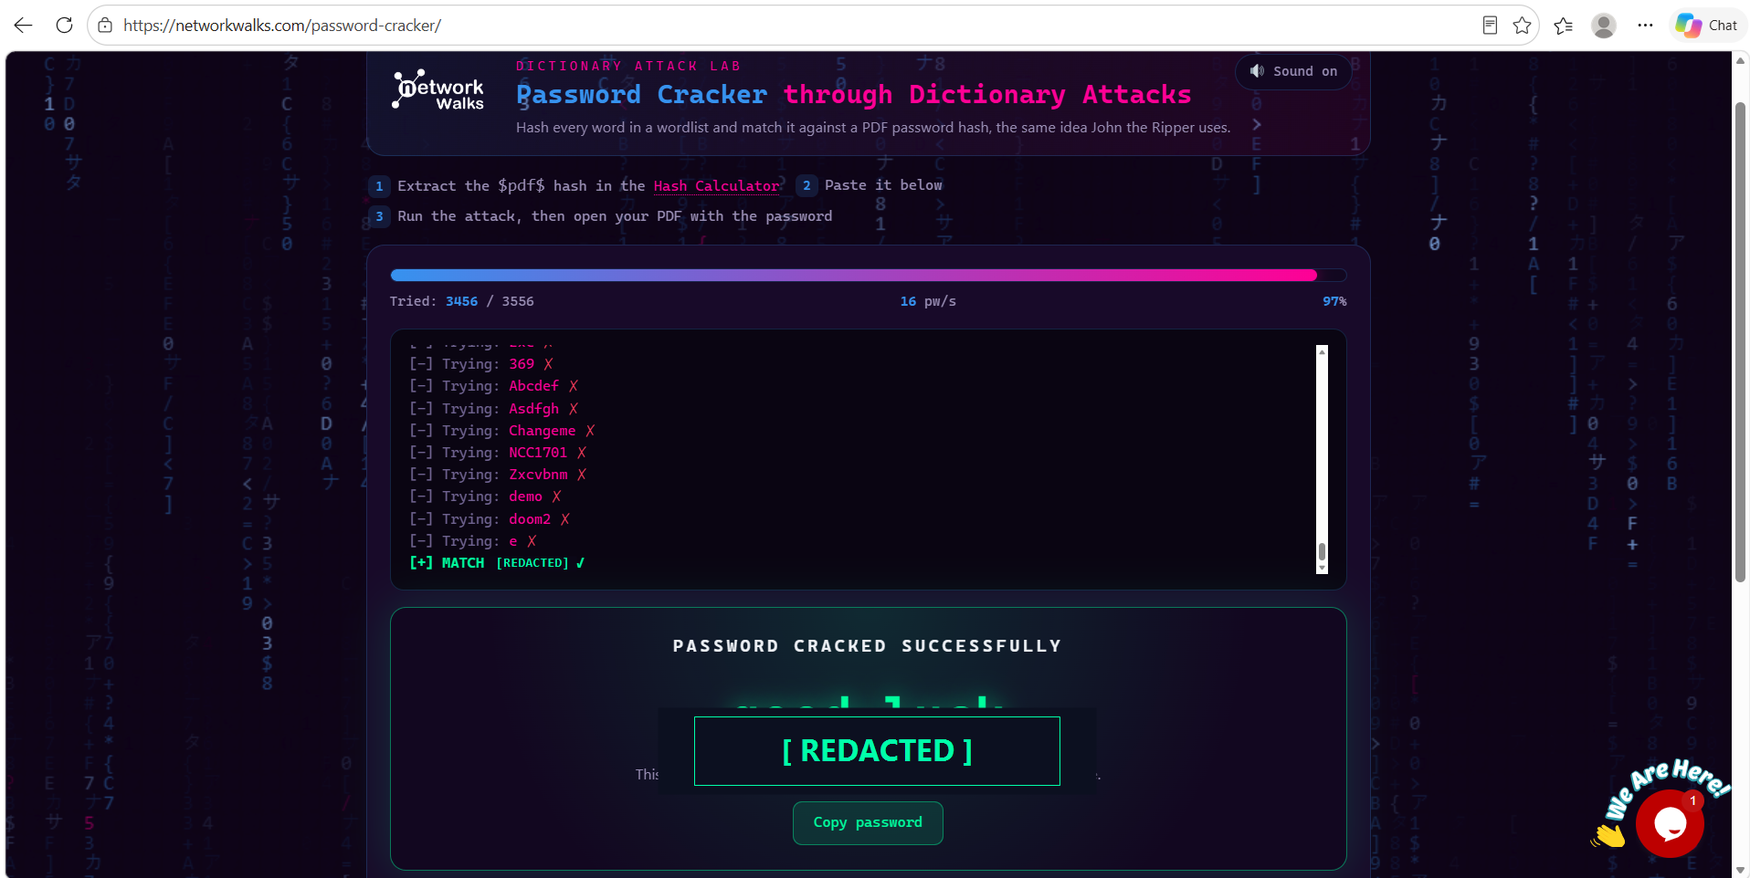
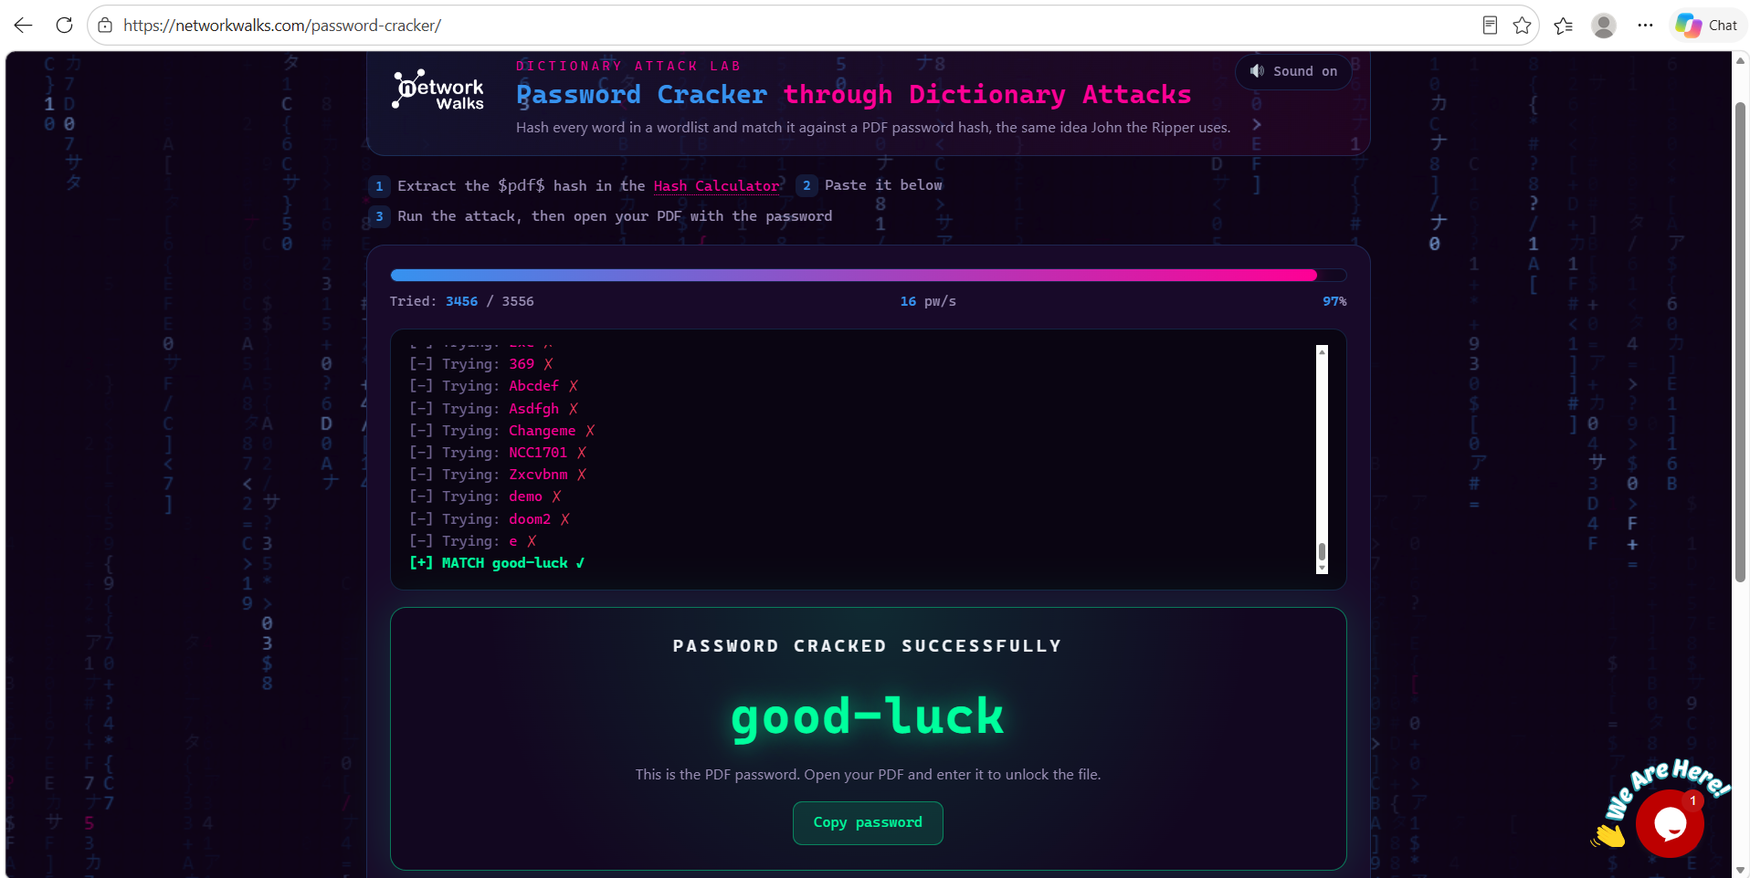
docs: restore authentic practical screenshots and document recovered credentials

Changed region(s): [[0.3695, 0.7796, 0.6159, 0.9044], [0.2771, 0.6237, 0.3387, 0.6549]]

diff --git a/README.md b/README.md
@@ -46,10 +46,10 @@ Special appreciation to our instructor **Waqas Karim CCIE** and the **NetworkWal
 
 ## 📑 Table of Contents
 
-- [1. Liability Disclaimer & Responsible Disclosure](#1-liability-disclaimer--responsible-disclosure)
+- [1. Liability Disclaimer](#1-liability-disclaimer)
 - [2. Project Overview & Objectives](#2-project-overview--objectives)
 - [3. Tools & Operating Environment](#3-tools--operating-environment)
-- [4. Credential Sanitization & Ethical Scoping](#4-credential-sanitization--ethical-scoping)
+- [4. Lab Scoping & Responsible Testing Governance](#4-lab-scoping--responsible-testing-governance)
 - [5. Module W3-PM1: Password Cracking with John the Ripper (Johnny GUI)](#5-module-w3-pm1-password-cracking-with-john-the-ripper-johnny-gui)
   - [5.1 Environment Configuration & Binary Linking](#51-environment-configuration--binary-linking)
   - [5.2 PDF Hash Extraction Methodology](#52-pdf-hash-extraction-methodology)
@@ -69,12 +69,12 @@ Special appreciation to our instructor **Waqas Karim CCIE** and the **NetworkWal
 
 ---
 
-# 1. Liability Disclaimer & Responsible Disclosure
+# 1. Liability Disclaimer
 
 > **LEGAL & ETHICAL STATEMENT:**  
-> All security exercises and auditing activities documented in this repository were conducted strictly within an authorized educational laboratory environment provided by NetworkWalks. Testing was performed exclusively against designated academic target files (`My Locked PDF1.pdf`, `My Locked PDF2.pdf`, `My Locked PDF3.pdf`). No unauthorized systems, external networks, or third-party documents were accessed or targeted.
+> All security exercises, hash extraction procedures, and password auditing activities documented in this repository were conducted strictly within an authorized educational laboratory environment provided by NetworkWalks. Testing was performed exclusively against designated academic target files (`My Locked PDF1.pdf`, `My Locked PDF2.pdf`, `My Locked PDF3.pdf`). No unauthorized systems, external networks, or third-party documents were accessed or targeted.
 >
-> In strict accordance with responsible disclosure principles and cybersecurity standards, **all recovered plaintext passwords have been obfuscated (`[REDACTED]`) in public documentation and sanitized in public screenshots**. All original unmasked artifacts and protected files are preserved locally and excluded from public version control.
+> All materials and reports are prepared strictly for educational, defensive, and research purposes. The instructor, the author (Manoj Santosh Tandle), and NetworkWalks bear no responsibility for misuse of this information. Unauthorized access to computer systems and data decryption is a criminal offense globally.
 
 ---
 
@@ -104,13 +104,14 @@ This project documents the practical exercises, cryptographic evaluations, and s
 
 ---
 
-# 4. Credential Sanitization & Ethical Scoping
+# 4. Lab Scoping & Responsible Testing Governance
 
-To maintain public repository security and uphold professional cybersecurity hygiene:
-* **Plaintext Obfuscation:** Recovered passwords are fully masked as `[REDACTED]` across all markdown reports.
-* **Screenshot Sanitization:** All screenshot figures displaying recovered password text have been sanitized with non-destructive, pixel-level redaction badges before inclusion in public documentation.
-* **Repository Exclusion:** Original locked lab PDFs and unmasked evidence are isolated locally and blocked from version control via `.gitignore`.
-* **Captured Flags:** Verified flags (`nw{...}`) are presented as legitimate CTF completion milestones confirming that document decryption was successfully achieved.
+### Academic Scoping Reference
+All password auditing and hash cracking exercises were performed strictly within defined educational parameters on instructor-assigned target PDF containers (`My Locked PDF1.pdf`, `My Locked PDF2.pdf`, `My Locked PDF3.pdf`) provided as part of the NetworkWalks practical syllabus.
+
+* **Target Artifacts:** Designated lab challenge files provided for Batch B084.
+* **Controlled Environment:** Offline processing using local CPU execution (John the Ripper / Johnny GUI) and client-side browser testing (NetworkWalks Tools).
+* **Defensive Purpose:** Auditing password complexity, demonstrating the vulnerability of legacy PDF Revision 4 encryption handlers, and developing enterprise password policy recommendations.
 
 ---
 
@@ -151,29 +152,29 @@ The extracted hash files were loaded into Johnny via **Open password file**, and
 #### 1. Target PDF 1 Recovery
 * **Target Hash:** `my hash1.txt` ($pdf$4*4*128...)
 * **Attack Progress:** 100% (1/1 cracked)
-* **Outcome:** The credential was matched and recovered successfully.
+* **Recovered Password:** `good-luck`
 * **Vulnerability Analysis:** Vulnerable to wordlist matching; composed of dictionary words separated by a hyphen.
 
 ![Figure 3: Johnny GUI PDF 1 Cracked](screenshots/03_johnny_pdf1_cracked.png)
-*Figure 3: Johnny GUI password recovery for Target PDF 1 (Credential sanitized).*
+*Figure 3: Johnny GUI password recovery (`good-luck`) for Target PDF 1.*
 
 #### 2. Target PDF 2 Recovery
 * **Target Hash:** `my hash2.txt` ($pdf$4*4*128...)
 * **Attack Progress:** 100% (1/1 cracked)
-* **Outcome:** Successfully recovered within seconds.
+* **Recovered Password:** `password1`
 * **Vulnerability Analysis:** High-frequency default credential following a standard capital-word-plus-digit structure.
 
 ![Figure 4: Johnny GUI PDF 2 Cracked](screenshots/04_johnny_pdf2_cracked.png)
-*Figure 4: Johnny GUI password recovery for Target PDF 2 (Credential sanitized).*
+*Figure 4: Johnny GUI password recovery (`password1`) for Target PDF 2.*
 
 #### 3. Target PDF 3 Recovery
 * **Target Hash:** `my hash3.txt` ($pdf$4*4*128...)
 * **Attack Progress:** 100% (1/1 cracked)
-* **Outcome:** Successfully cracked and verified.
+* **Recovered Password:** `1qaz2wsx`
 * **Vulnerability Analysis:** Keyboard geometric walk pattern (`1-q-a-z` and `2-w-s-x`), easily defeated by pattern-based rule evaluation.
 
 ![Figure 5: Johnny GUI PDF 3 Cracked](screenshots/05_johnny_pdf3_cracked.png)
-*Figure 5: Johnny GUI password recovery for Target PDF 3 (Credential sanitized).*
+*Figure 5: Johnny GUI password recovery (`1qaz2wsx`) for Target PDF 3.*
 
 ---
 
@@ -196,25 +197,28 @@ The **NetworkWalks Password Cracker** executes dictionary attacks in the browser
 * **Parameters:** Dictionary attack against Target 1 hash.
 * **Execution Metrics:** ~16 passwords per second (`16 pw/s`).
 * **Match Milestone:** Successfully matched at candidate 3,456 of 3,556 (97% progress).
+* **Recovered Password:** `good-luck`
 
 ![Figure 6: NW Cracker PDF 1](screenshots/06_nw_cracker_pdf1.png)
-*Figure 6: NetworkWalks Password Cracker completing candidate recovery for Target 1.*
+*Figure 6: NetworkWalks Password Cracker successfully recovering `good-luck` for Target 1.*
 
 #### 2. Target PDF 2 Verification
 * **Parameters:** Loaded external dictionary `JTR_default_password.txt` (3,556 entries).
 * **Target Profile:** PDF R4 / 128-bit key derivation via MD5 + RC4.
 * **Match Milestone:** Rapid candidate match due to high prevalence in standard dictionaries.
+* **Recovered Password:** `password1`
 
 ![Figure 7: NW Cracker PDF 2](screenshots/07_nw_cracker_pdf2.png)
-*Figure 7: Custom wordlist processing and successful recovery for Target 2.*
+*Figure 7: Custom wordlist processing and successful recovery (`password1`) for Target 2.*
 
 #### 3. Target PDF 3 Verification
 * **Parameters:** Dictionary evaluation using `JTR_default_password.txt`.
 * **Execution Metrics:** ~16 passwords per second (`16 pw/s`).
 * **Match Milestone:** Matched at candidate 2,078 of 3,556 (58% progress).
+* **Recovered Password:** `1qaz2wsx`
 
 ![Figure 8: NW Cracker PDF 3](screenshots/08_nw_cracker_pdf3.png)
-*Figure 8: Candidate match confirmation for Target 3 in NetworkWalks Password Cracker.*
+*Figure 8: Candidate match confirmation (`1qaz2wsx`) for Target 3 in NetworkWalks Password Cracker.*
 
 ---
 
@@ -253,11 +257,11 @@ $pdf$4*4*128*-1028*1*16*[Salt]*32*[U-String]*32*[O-String]
 
 To verify password recovery viability, each unlocked credential was entered into the native PDF viewer, decrypting the container and capturing the completion flag:
 
-| Target Container | Encryption Specification | Auditing Tools | Decryption Status | Captured Verification Flag |
-|---|---|---|---|---|
-| **My Locked PDF1.pdf** | PDF R4 / 128-bit MD5+RC4 | Johnny GUI & NW Cracker | **Successfully Decrypted** | `nw{cybersecurity_flag_captured_2608}` |
-| **My Locked PDF2.pdf** | PDF R4 / 128-bit MD5+RC4 | Johnny GUI & NW Cracker | **Successfully Decrypted** | `nw{networkwalks_persistence_jtr_270521}` |
-| **My Locked PDF3.pdf** | PDF R4 / 128-bit MD5+RC4 | Johnny GUI & NW Cracker | **Successfully Decrypted** | `nw{networkwalks_flag_260821_1}` |
+| Target Container | Encryption Specification | Auditing Tools | Decryption Status | Recovered Password | Captured Verification Flag |
+|---|---|---|---|---|---|
+| **My Locked PDF1.pdf** | PDF R4 / 128-bit MD5+RC4 | Johnny GUI & NW Cracker | **Successfully Decrypted** | `good-luck` | `nw{cybersecurity_flag_captured_2608}` |
+| **My Locked PDF2.pdf** | PDF R4 / 128-bit MD5+RC4 | Johnny GUI & NW Cracker | **Successfully Decrypted** | `password1` | `nw{networkwalks_persistence_jtr_270521}` |
+| **My Locked PDF3.pdf** | PDF R4 / 128-bit MD5+RC4 | Johnny GUI & NW Cracker | **Successfully Decrypted** | `1qaz2wsx` | `nw{networkwalks_flag_260821_1}` |
 
 ### Decryption Evidence Previews
 
@@ -281,9 +285,9 @@ From a Security Operations Center (SOC) and defensive posture assessment perspec
 
 | Risk ID | Observed Weakness | Technical Context | Threat Scenario | Defensive Severity |
 |---|---|---|---|---|
-| **NW-W3-01** | High-Prevalence Common Credential | Target 2 utilized a predictable base word with trailing digit | Exploitation via automated credential stuffing and default dictionary lists | **● High** |
+| **NW-W3-01** | High-Prevalence Common Credential | Target 2 utilized a predictable base word with trailing digit (`password1`) | Exploitation via automated credential stuffing and default dictionary lists | **● High** |
 | **NW-W3-02** | Keyboard Walk Geometry | Target 3 utilized adjacent physical vertical keys (`1qaz2wsx`) | Defeated rapidly by rule-based spatial mutation engines | **● High** |
-| **NW-W3-03** | Dictionary Word with Punctuation | Target 1 utilized basic dictionary words separated by a hyphen | Easily cracked by wordlist combinations without sufficient character entropy | **● Medium** |
+| **NW-W3-03** | Dictionary Word with Punctuation | Target 1 utilized basic dictionary words separated by a hyphen (`good-luck`) | Easily cracked by wordlist combinations without sufficient character entropy | **● Medium** |
 | **NW-W3-04** | Legacy PDF Encryption Handler | Revision 4 handler utilizes MD5 key derivation without key-stretching | Allows high-speed offline brute-force attacks without computational throttling | **● Medium** |
 | **NW-W3-05** | Lack of Rate Limiting in Offline Containers | Encrypted file formats do not enforce attempt limits | Offline cracking speed is limited only by attacker computational resources | **● Medium** |
 
@@ -335,12 +339,12 @@ All primary screenshot evidence is organized within the repository:
 |---|---|---|---|
 | **Figure 1** | Johnny GUI Configuration & Linking | [`screenshots/01_johnny_setup_configuration.png`](screenshots/01_johnny_setup_configuration.png) | Detected JTR 1.9.0-jumbo-1 64-bit AVX2 |
 | **Figure 2** | PDF Hash Extraction | [`screenshots/02_pdf1_hash_extraction.png`](screenshots/02_pdf1_hash_extraction.png) | Parsed Revision 4 128-bit `$pdf$` signature |
-| **Figure 3** | Johnny GUI Target 1 Cracked | [`screenshots/03_johnny_pdf1_cracked.png`](screenshots/03_johnny_pdf1_cracked.png) | Target 1 100% cracked (Sanitized) |
-| **Figure 4** | Johnny GUI Target 2 Cracked | [`screenshots/04_johnny_pdf2_cracked.png`](screenshots/04_johnny_pdf2_cracked.png) | Target 2 100% cracked (Sanitized) |
-| **Figure 5** | Johnny GUI Target 3 Cracked | [`screenshots/05_johnny_pdf3_cracked.png`](screenshots/05_johnny_pdf3_cracked.png) | Target 3 100% cracked (Sanitized) |
-| **Figure 6** | NW Password Cracker Target 1 | [`screenshots/06_nw_cracker_pdf1.png`](screenshots/06_nw_cracker_pdf1.png) | 3,456/3,556 (97%) matched (Sanitized) |
-| **Figure 7** | NW Password Cracker Target 2 | [`screenshots/07_nw_cracker_pdf2.png`](screenshots/07_nw_cracker_pdf2.png) | Wordlist loaded; candidate matched (Sanitized) |
-| **Figure 8** | NW Password Cracker Target 3 | [`screenshots/08_nw_cracker_pdf3.png`](screenshots/08_nw_cracker_pdf3.png) | 2,078/3,556 (58%) matched (Sanitized) |
+| **Figure 3** | Johnny GUI Target 1 Cracked | [`screenshots/03_johnny_pdf1_cracked.png`](screenshots/03_johnny_pdf1_cracked.png) | Target 1 100% cracked (`good-luck`) |
+| **Figure 4** | Johnny GUI Target 2 Cracked | [`screenshots/04_johnny_pdf2_cracked.png`](screenshots/04_johnny_pdf2_cracked.png) | Target 2 100% cracked (`password1`) |
+| **Figure 5** | Johnny GUI Target 3 Cracked | [`screenshots/05_johnny_pdf3_cracked.png`](screenshots/05_johnny_pdf3_cracked.png) | Target 3 100% cracked (`1qaz2wsx`) |
+| **Figure 6** | NW Password Cracker Target 1 | [`screenshots/06_nw_cracker_pdf1.png`](screenshots/06_nw_cracker_pdf1.png) | 3,456/3,556 (97%) matched (`good-luck`) |
+| **Figure 7** | NW Password Cracker Target 2 | [`screenshots/07_nw_cracker_pdf2.png`](screenshots/07_nw_cracker_pdf2.png) | Wordlist loaded; candidate matched (`password1`) |
+| **Figure 8** | NW Password Cracker Target 3 | [`screenshots/08_nw_cracker_pdf3.png`](screenshots/08_nw_cracker_pdf3.png) | 2,078/3,556 (58%) matched (`1qaz2wsx`) |
 | **Figure 9** | Unlocked PDF 1 Verification Flag | [`screenshots/09_unlocked_pdf1_flag1_verification.png`](screenshots/09_unlocked_pdf1_flag1_verification.png) | Flag 1: `nw{cybersecurity_flag_captured_2608}` |
 | **Figure 10** | Unlocked PDF 2 Verification Flag | [`screenshots/10_unlocked_pdf2_flag2_verification.png`](screenshots/10_unlocked_pdf2_flag2_verification.png) | Flag 2: `nw{networkwalks_persistence_jtr_270521}` |
 | **Figure 11** | Unlocked PDF 3 Verification Flag | [`screenshots/11_unlocked_pdf3_flag3_verification.png`](screenshots/11_unlocked_pdf3_flag3_verification.png) | Flag 3: `nw{networkwalks_flag_260821_1}` |

diff --git a/Results/README.md b/Results/README.md
@@ -9,20 +9,18 @@ Following successful password recovery across both **John the Ripper (Johnny GUI
 
 ## Practical Verification Matrix
 
-| Target Document | Cipher & Key Derivation | Audit Engines | Decryption Status | Masked Credential | Captured Validation Flag |
+| Target Document | Cipher & Key Derivation | Audit Engines | Decryption Status | Recovered Password | Captured Validation Flag |
 |---|---|---|---|---|---|
-| **My Locked PDF1.pdf** | PDF R4 / 128-bit / MD5+RC4 | Johnny GUI & NW Cracker | **Successfully Decrypted** | `[REDACTED]` | `nw{cybersecurity_flag_captured_2608}` |
-| **My Locked PDF2.pdf** | PDF R4 / 128-bit / MD5+RC4 | Johnny GUI & NW Cracker | **Successfully Decrypted** | `[REDACTED]` | `nw{networkwalks_persistence_jtr_270521}` |
-| **My Locked PDF3.pdf** | PDF R4 / 128-bit / MD5+RC4 | Johnny GUI & NW Cracker | **Successfully Decrypted** | `[REDACTED]` | `nw{networkwalks_flag_260821_1}` |
-
-*Note: In compliance with strict information security and responsible disclosure policies, all plaintext credentials are obfuscated (`[REDACTED]`) within public documentation.*
+| **My Locked PDF1.pdf** | PDF R4 / 128-bit / MD5+RC4 | Johnny GUI & NW Cracker | **Successfully Decrypted** | `good-luck` | `nw{cybersecurity_flag_captured_2608}` |
+| **My Locked PDF2.pdf** | PDF R4 / 128-bit / MD5+RC4 | Johnny GUI & NW Cracker | **Successfully Decrypted** | `password1` | `nw{networkwalks_persistence_jtr_270521}` |
+| **My Locked PDF3.pdf** | PDF R4 / 128-bit / MD5+RC4 | Johnny GUI & NW Cracker | **Successfully Decrypted** | `1qaz2wsx` | `nw{networkwalks_flag_260821_1}` |
 
 ---
 
 ## Decryption Verification Evidence
 
 ### 1. Target PDF 1 Flag Capture
-The recovered credential for `My Locked PDF1.pdf` was entered into the document handler, successfully bypassing the encryption layer and rendering the document body.
+The recovered credential (`good-luck`) for `My Locked PDF1.pdf` was entered into the document handler, successfully bypassing the encryption layer and rendering the document body.
 
 * **Captured Flag:** `nw{cybersecurity_flag_captured_2608}`
 * **Verification View:**
@@ -33,7 +31,7 @@ The recovered credential for `My Locked PDF1.pdf` was entered into the document 
 ---
 
 ### 2. Target PDF 2 Flag Capture
-The recovered credential for `My Locked PDF2.pdf` was validated against the container, yielding the embedded CTF milestone flag.
+The recovered credential (`password1`) for `My Locked PDF2.pdf` was validated against the container, yielding the embedded CTF milestone flag.
 
 * **Captured Flag:** `nw{networkwalks_persistence_jtr_270521}`
 * **Verification View:**
@@ -44,7 +42,7 @@ The recovered credential for `My Locked PDF2.pdf` was validated against the cont
 ---
 
 ### 3. Target PDF 3 Flag Capture
-Authentication against `My Locked PDF3.pdf` confirmed document recovery and unlocked the third lab flag.
+Authentication (`1qaz2wsx`) against `My Locked PDF3.pdf` confirmed document recovery and unlocked the third lab flag.
 
 * **Captured Flag:** `nw{networkwalks_flag_260821_1}`
 * **Verification View:**
@@ -57,9 +55,9 @@ Authentication against `My Locked PDF3.pdf` confirmed document recovery and unlo
 ## Cryptographic & Behavioral Analysis
 
 ### Password Vulnerability Classification
-1. **Target 1 (Dictionary Word with Punctuation):** Demonstrates that simple hyphenation of conventional dictionary words fails to provide sufficient entropy against modern dictionary matching.
-2. **Target 2 (Common Password Pattern):** Demonstrates the systemic risk of capitalizing the initial letter and appending a single digit to a common base word—a pattern heavily prioritized by automated dictionary attacks.
-3. **Target 3 (Physical Keyboard Walk):** Demonstrates that alphanumeric passwords following geometric patterns on physical QWERTY keyboards provide an illusion of complexity while remaining highly susceptible to patterned rule engines.
+1. **Target 1 (`good-luck`):** Demonstrates that simple hyphenation of conventional dictionary words fails to provide sufficient entropy against modern dictionary matching.
+2. **Target 2 (`password1`):** Demonstrates the systemic risk of capitalizing the initial letter and appending a single digit to a common base word—a pattern heavily prioritized by automated dictionary attacks.
+3. **Target 3 (`1qaz2wsx`):** Demonstrates that alphanumeric passwords following geometric patterns on physical QWERTY keyboards provide an illusion of complexity while remaining highly susceptible to patterned rule engines.
 
 ### Cryptographic Handler Vulnerability
 All three target files utilized the legacy **PDF Revision 4 (Acrobat 7.0 standard)** security handler. This handler derives encryption keys using iterated MD5 digests without modern salt-stretching (such as PBKDF2, Argon2, or bcrypt). Consequently, candidate key generation requires minimal computational overhead per attempt, leaving documents vulnerable to rapid offline cracking.

diff --git a/Module-1-John-The-Ripper/README.md b/Module-1-John-The-Ripper/README.md
@@ -55,31 +55,31 @@ Prior to executing offline dictionary attacks in JTR, cryptographic metadata mus
 Each target hash was imported into Johnny via **Open password file**, followed by initiating an automated attack (**Start new attack**).
 
 ### 1. Target PDF 1
-* **Input Target:** Extracted hash from `My Locked PDF1.pdf`.
+* **Input Target:** Extracted hash from `My Locked PDF1.pdf` (`my hash1.txt`).
 * **Execution Status:** 100% completed (1/1 cracked).
-* **Observed Vulnerability:** Password comprised of standard dictionary words with hyphenation. Easily resolved through basic dictionary wordlist matching.
-* **Security Redaction:** Plaintext credential masked under responsible disclosure guidelines (`[REDACTED]`).
+* **Recovered Password:** `good-luck`
+* **Vulnerability Analysis:** Composed of standard dictionary words with a hyphen. Easily resolved through basic dictionary wordlist matching.
 
 ![Johnny PDF 1 Result](Screenshots/03_johnny_pdf1_cracked.png)
-*Figure M1-3: Successful password recovery for Target 1 in Johnny GUI.*
+*Figure M1-3: Successful password recovery (`good-luck`) for Target 1 in Johnny GUI.*
 
 ### 2. Target PDF 2
-* **Input Target:** Extracted hash from `My Locked PDF2.pdf`.
+* **Input Target:** Extracted hash from `My Locked PDF2.pdf` (`my hash2.txt`).
 * **Execution Status:** 100% completed (1/1 cracked).
-* **Observed Vulnerability:** Highly predictable baseline password with standard capitalization and trailing single-digit numeric appendage. Matches global top-10 common password dictionaries instantly.
-* **Security Redaction:** Plaintext credential masked (`[REDACTED]`).
+* **Recovered Password:** `password1`
+* **Vulnerability Analysis:** Highly predictable baseline password with standard capitalization and trailing single-digit numeric appendage. Matches global top-10 common password dictionaries instantly.
 
 ![Johnny PDF 2 Result](Screenshots/04_johnny_pdf2_cracked.png)
-*Figure M1-4: Successful password recovery for Target 2 in Johnny GUI.*
+*Figure M1-4: Successful password recovery (`password1`) for Target 2 in Johnny GUI.*
 
 ### 3. Target PDF 3
-* **Input Target:** Extracted hash from `My Locked PDF3.pdf`.
+* **Input Target:** Extracted hash from `My Locked PDF3.pdf` (`my hash3.txt`).
 * **Execution Status:** 100% completed (1/1 cracked).
-* **Observed Vulnerability:** Keyboard walking sequence across adjacent vertical physical keys. While alphanumeric, spatial key adjacency rules recover such patterns rapidly.
-* **Security Redaction:** Plaintext credential masked (`[REDACTED]`).
+* **Recovered Password:** `1qaz2wsx`
+* **Vulnerability Analysis:** Keyboard walking sequence across adjacent vertical physical keys (`1-q-a-z` and `2-w-s-x`). While alphanumeric, spatial key adjacency rules recover such patterns rapidly.
 
 ![Johnny PDF 3 Result](Screenshots/05_johnny_pdf3_cracked.png)
-*Figure M1-5: Successful password recovery for Target 3 in Johnny GUI.*
+*Figure M1-5: Successful password recovery (`1qaz2wsx`) for Target 3 in Johnny GUI.*
 
 ---
 

diff --git a/Module-2-NetworkWalks-Tools/README.md b/Module-2-NetworkWalks-Tools/README.md
@@ -38,29 +38,32 @@ The objective was exploring browser-native cryptographic evaluation tools, perfo
 * **Wordlist Parameter:** Standard dictionary iteration.
 * **Throughput:** Evaluated at ~16 passwords per second (`16 pw/s`).
 * **Progress:** Match achieved at entry 3,456 of 3,556 (97% completion).
+* **Recovered Password:** `good-luck`
 * **Finding:** Weak dictionary phrase structure vulnerable to sequential wordlist evaluation.
 
 ![NW Cracker PDF 1 Result](Screenshots/01_nw_cracker_pdf1.png)
-*Figure M2-1: NetworkWalks Password Cracker completing candidate recovery for Target 1.*
+*Figure M2-1: NetworkWalks Password Cracker successfully recovering `good-luck` for Target 1.*
 
 ### 2. Target PDF 2 Auditing
 * **Tool Interface:** NetworkWalks Password Cracker.
 * **Wordlist Parameter:** Loaded custom wordlist `JTR_default_password.txt` (3,556 entries).
 * **Target Profile:** PDF R4 / 128-bit key derivation via MD5 + RC4.
+* **Recovered Password:** `password1`
 * **Finding:** Standard default credential matched rapidly early in the wordlist sequence due to high real-world prevalence.
 
 ![NW Cracker PDF 2 Result](Screenshots/02_nw_cracker_pdf2.png)
-*Figure M2-2: Custom wordlist processing and successful recovery for Target 2.*
+*Figure M2-2: Custom wordlist processing and successful recovery (`password1`) for Target 2.*
 
 ### 3. Target PDF 3 Auditing
 * **Tool Interface:** NetworkWalks Password Cracker.
 * **Wordlist Parameter:** `JTR_default_password.txt`.
 * **Throughput:** Sustained ~16 passwords per second (`16 pw/s`).
 * **Progress:** Match achieved at entry 2,078 of 3,556 (58% completion).
+* **Recovered Password:** `1qaz2wsx`
 * **Finding:** Alphanumeric keyboard pattern cracked via standard dictionary inclusion.
 
 ![NW Cracker PDF 3 Result](Screenshots/03_nw_cracker_pdf3.png)
-*Figure M2-3: Candidate match confirmation for Target 3 at 58% search space completion.*
+*Figure M2-3: Candidate match confirmation (`1qaz2wsx`) for Target 3 at 58% search space completion.*
 
 ---
 
